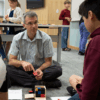
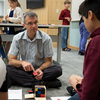
Replace header photo on first page with attached photo (69fab636692ddf5dd352da29)

diff --git a/index.html b/index.html
@@ -123,7 +123,7 @@ ol,ul{box-sizing:border-box}:root :where(.wp-block-list.has-background){padding:
 		<div class="custom-header">
 
 		<div class="custom-header-media">
-			<div id="wp-custom-header" class="wp-custom-header"><img src="wp-content/uploads/2020/04/cropped-Copy-of-DSC_6309-1-scaled-2.jpg" width="2000" height="1200" alt="" srcset="wp-content/uploads/2020/04/cropped-Copy-of-DSC_6309-1-scaled-2.jpg 2000w, wp-content/uploads/2020/04/cropped-Copy-of-DSC_6309-1-scaled-2-300x180.jpg 300w, wp-content/uploads/2020/04/cropped-Copy-of-DSC_6309-1-scaled-2-1024x614.jpg 1024w, wp-content/uploads/2020/04/cropped-Copy-of-DSC_6309-1-scaled-2-768x461.jpg 768w, wp-content/uploads/2020/04/cropped-Copy-of-DSC_6309-1-scaled-2-1536x922.jpg 1536w" sizes="100vw" decoding="async" fetchpriority="high"></div>		</div>
+			<div id="wp-custom-header" class="wp-custom-header"><img src="wp-content/uploads/2025/05/whiteboard-with-briana.png" width="2464" height="1728" alt="" sizes="100vw" decoding="async" fetchpriority="high"></div>		</div>
 
 	<div class="site-branding">
 	<div class="wrap">
